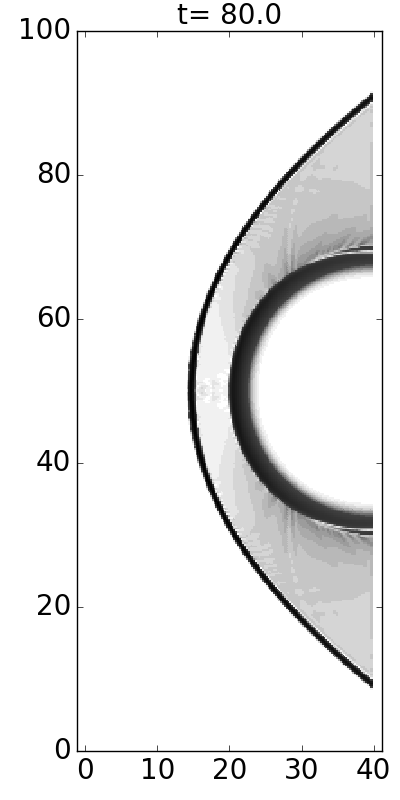
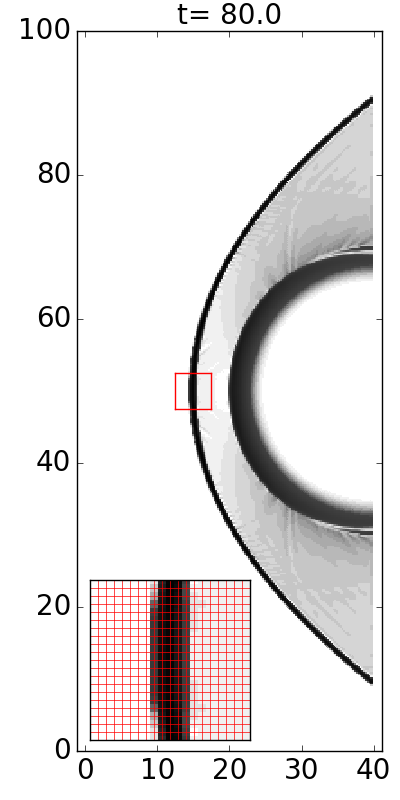
add experiments with residuals

diff --git a/numerics_paper/version2/numerical_chj.tex b/numerics_paper/version2/numerical_chj.tex
@@ -1085,14 +1085,29 @@ $[0,40]\times[0,100]$ with a cylinder of radius 20 centered at $(40,50)$.
 Reflecting boundary conditions are imposed at the surface of the cylinder,
 along with outflow conditions along the rest of the right edge of the domain.
 The depth and velocity are set initially and (for all time) at the other
-boundaries to $h_0=1$, $u_0=5$, for a Froude number of 5.  We use a $160 \times 400$
-uniform Cartesian grid.
+boundaries to $h_0=1$, $u_0=5$, for a Froude number of 5.
+We use a $160 \times 400$ uniform Cartesian grid.
 %
 In Figure \ref{fig:steady_outflow}, we show results at $t=80$, after the flow has reached
 a steady state.  With Roe's solver, negative values (of the water height) are generated at an early
 time, leading to failure of the solver.  Therefore, we show results only for
-Rusanov's, HLLEMCC by \cite{kemm2014note}, and the blended solvers.  These three methods give very similar
-results.
+Rusanov's, HLLEMCC by \cite{kemm2014note}, and the blended solvers.
+{\color{red}
+  These three methods give carbuncle free results.
+  It is worth noting that the solution with Rusanov's solver is the most dissipated solution. 
+  Let 
+  \begin{align}\label{res}
+    \xi(t^{n+1}):=\frac{||h^{n+1}-h^n||_{\ell^2}}{||h^0||_{\ell^2}}
+  \end{align}
+  denote the residual based on the water height. In Figure \ref{fig:residuals_cylinder_2nd}, we plot $\xi(t)$ considering
+  the three Riemann solvers. With HLLEMCC or the blended solver, the residual stagnates. 
+  In Figure \ref{fig:residuals_cylinder_1st} we repeat the same experiment but using the first-order method \eqref{first-order_via_fluct} instead.
+  In this case, the residual stagnates only when we consider the HLLEMCC solver.
+  Clearly, the ability of the blended solver to converge to the steady state solution is affected only by the second-order corrections.
+  In Figure \ref{fig:cylinder_blended}, we zoom close to the front of the shock and show the grid we use.
+  Note that the grid is cartesian and that the shock is resolved within few cells. Therefore, the ability of the method to deliver
+  carbuncle free solutions does not depend on the shock being aligned with a grid interface. 
+}
 
 \begin{figure}[!h]
   {\scriptsize
@@ -1101,11 +1116,23 @@ results.
     \quad \quad \quad \quad \quad \quad
     \subfloat[HLLEMCC solver.]{\includegraphics[scale=0.4]{figures/cylinder_hllemcc.png}}
     \quad \quad \quad \quad \quad \quad
-    \subfloat[Blended solver.]{\includegraphics[scale=0.4]{figures/cylinder_ES.png}}
+    \subfloat[Blended solver. \label{fig:cylinder_blended}]{\includegraphics[scale=0.4]{figures/cylinder_ES.png}}
   }
   \caption{
     Flow past a cylinder.  Results for Rusanov's, HLLEMCC, and the blended solvers.
     \label{fig:cylinder_flow}}
+\end{figure}
+
+\begin{figure}[!h]
+  {\scriptsize
+    \subfloat[First-order method \eqref{first-order_via_fluct} \label{fig:residuals_cylinder_1st}]
+             {\includegraphics[scale=0.4]{figures/residuals_cylinder_order1.png}}
+    \subfloat[Second-order method \eqref{second-order_via_fluct} \label{fig:residuals_cylinder_2nd}]
+             {\includegraphics[scale=0.4]{figures/residuals_cylinder_order2.png}}
+  }
+  \caption{
+    Residual $\xi(t)$ \eqref{res} with different Riemann solvers for the problem of the flow past a cylinder.
+    \label{fig:residuals_cylinder}}
 \end{figure}
 
 {\color{OliveGreen}
